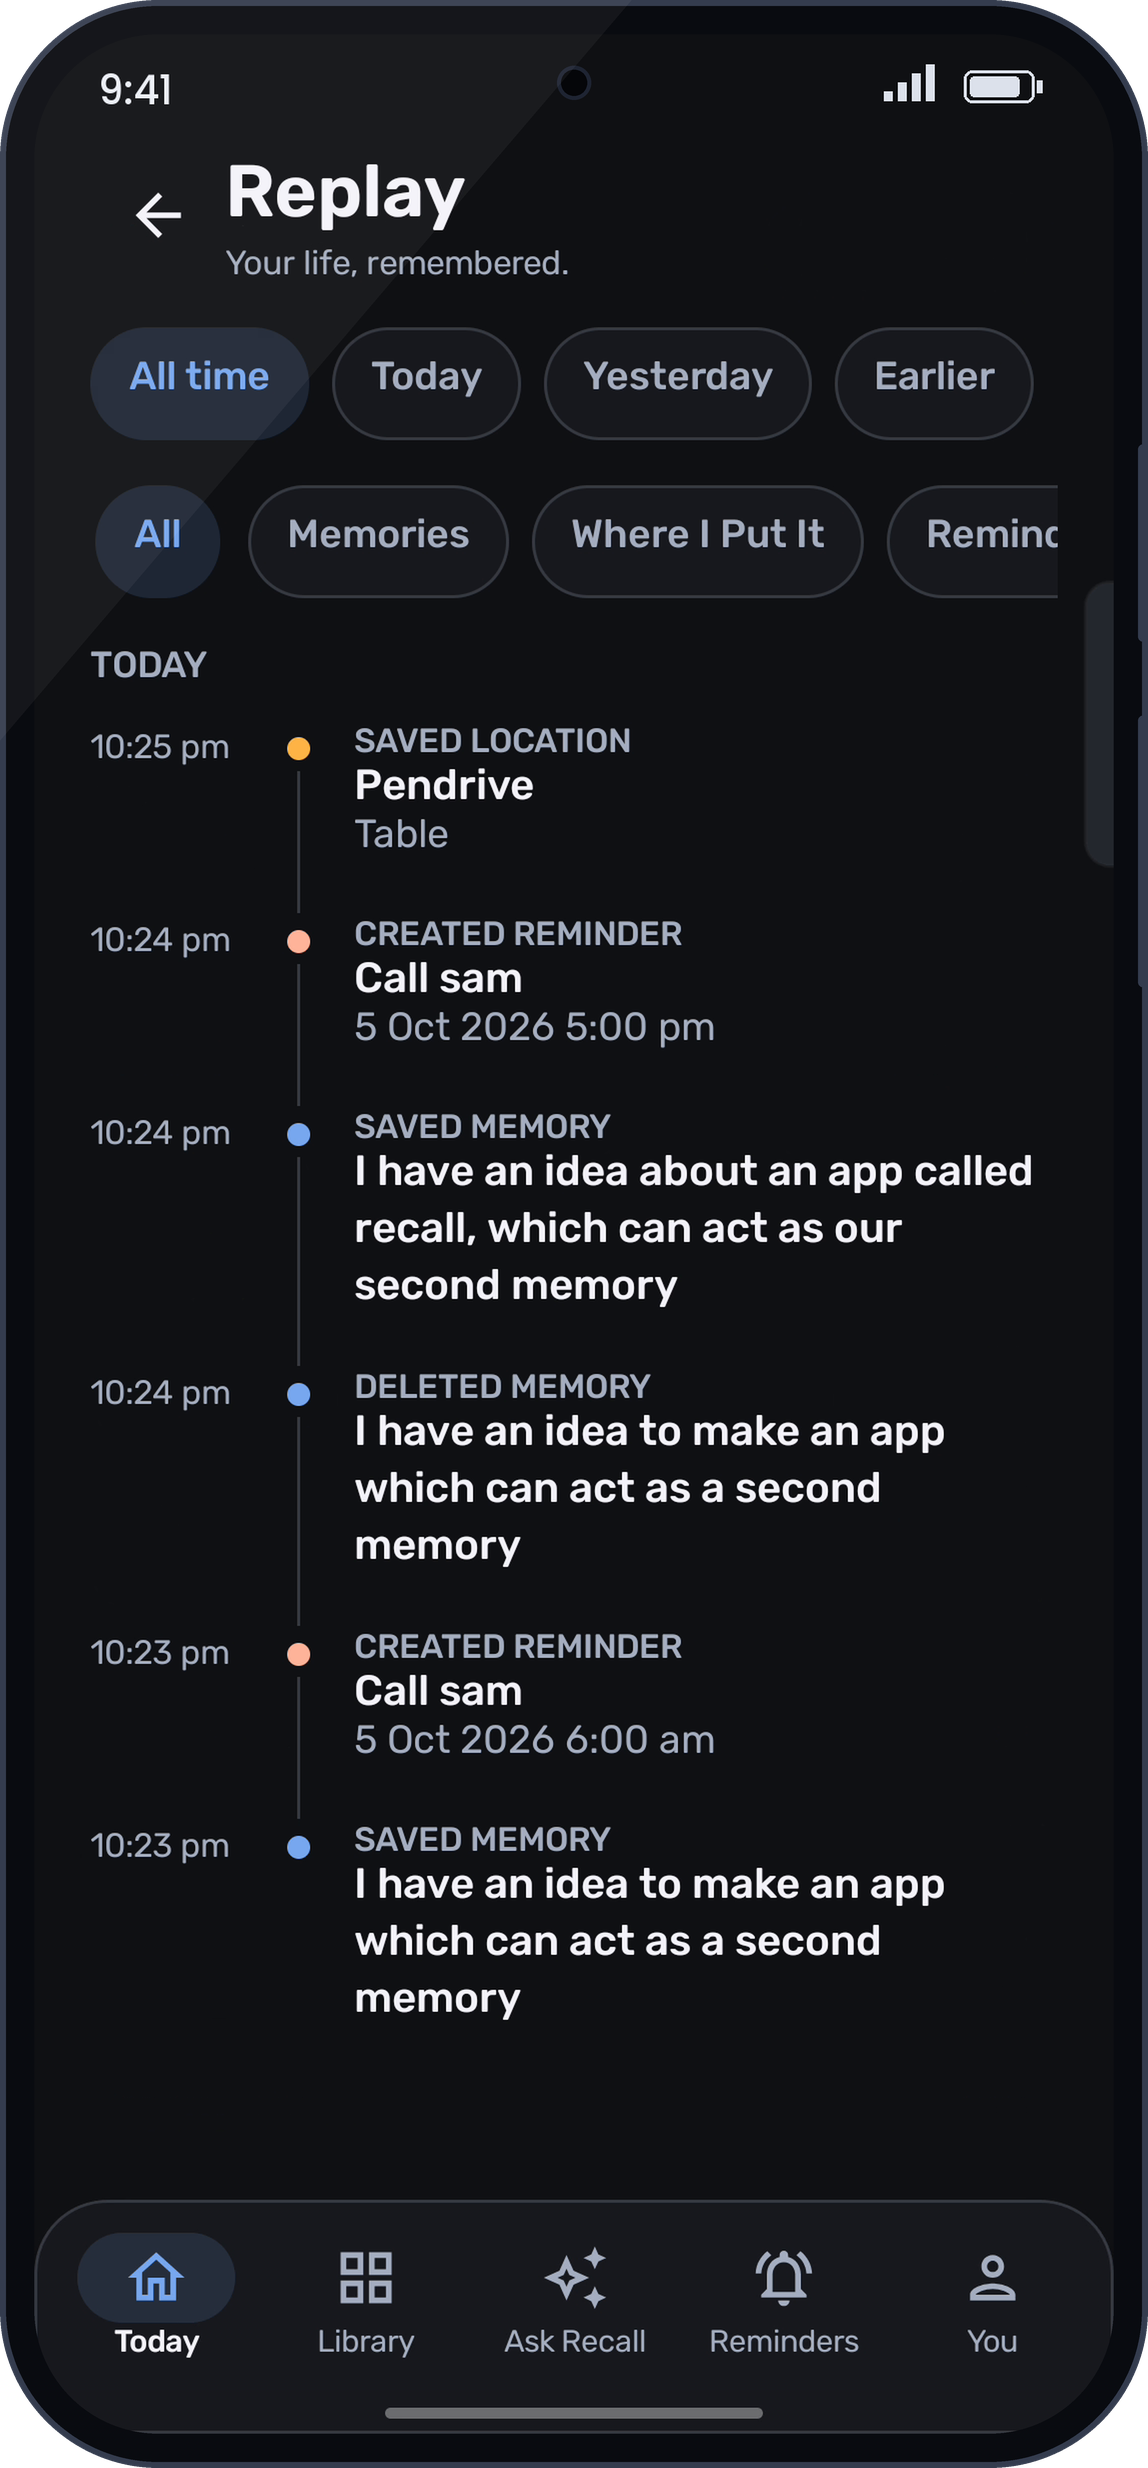
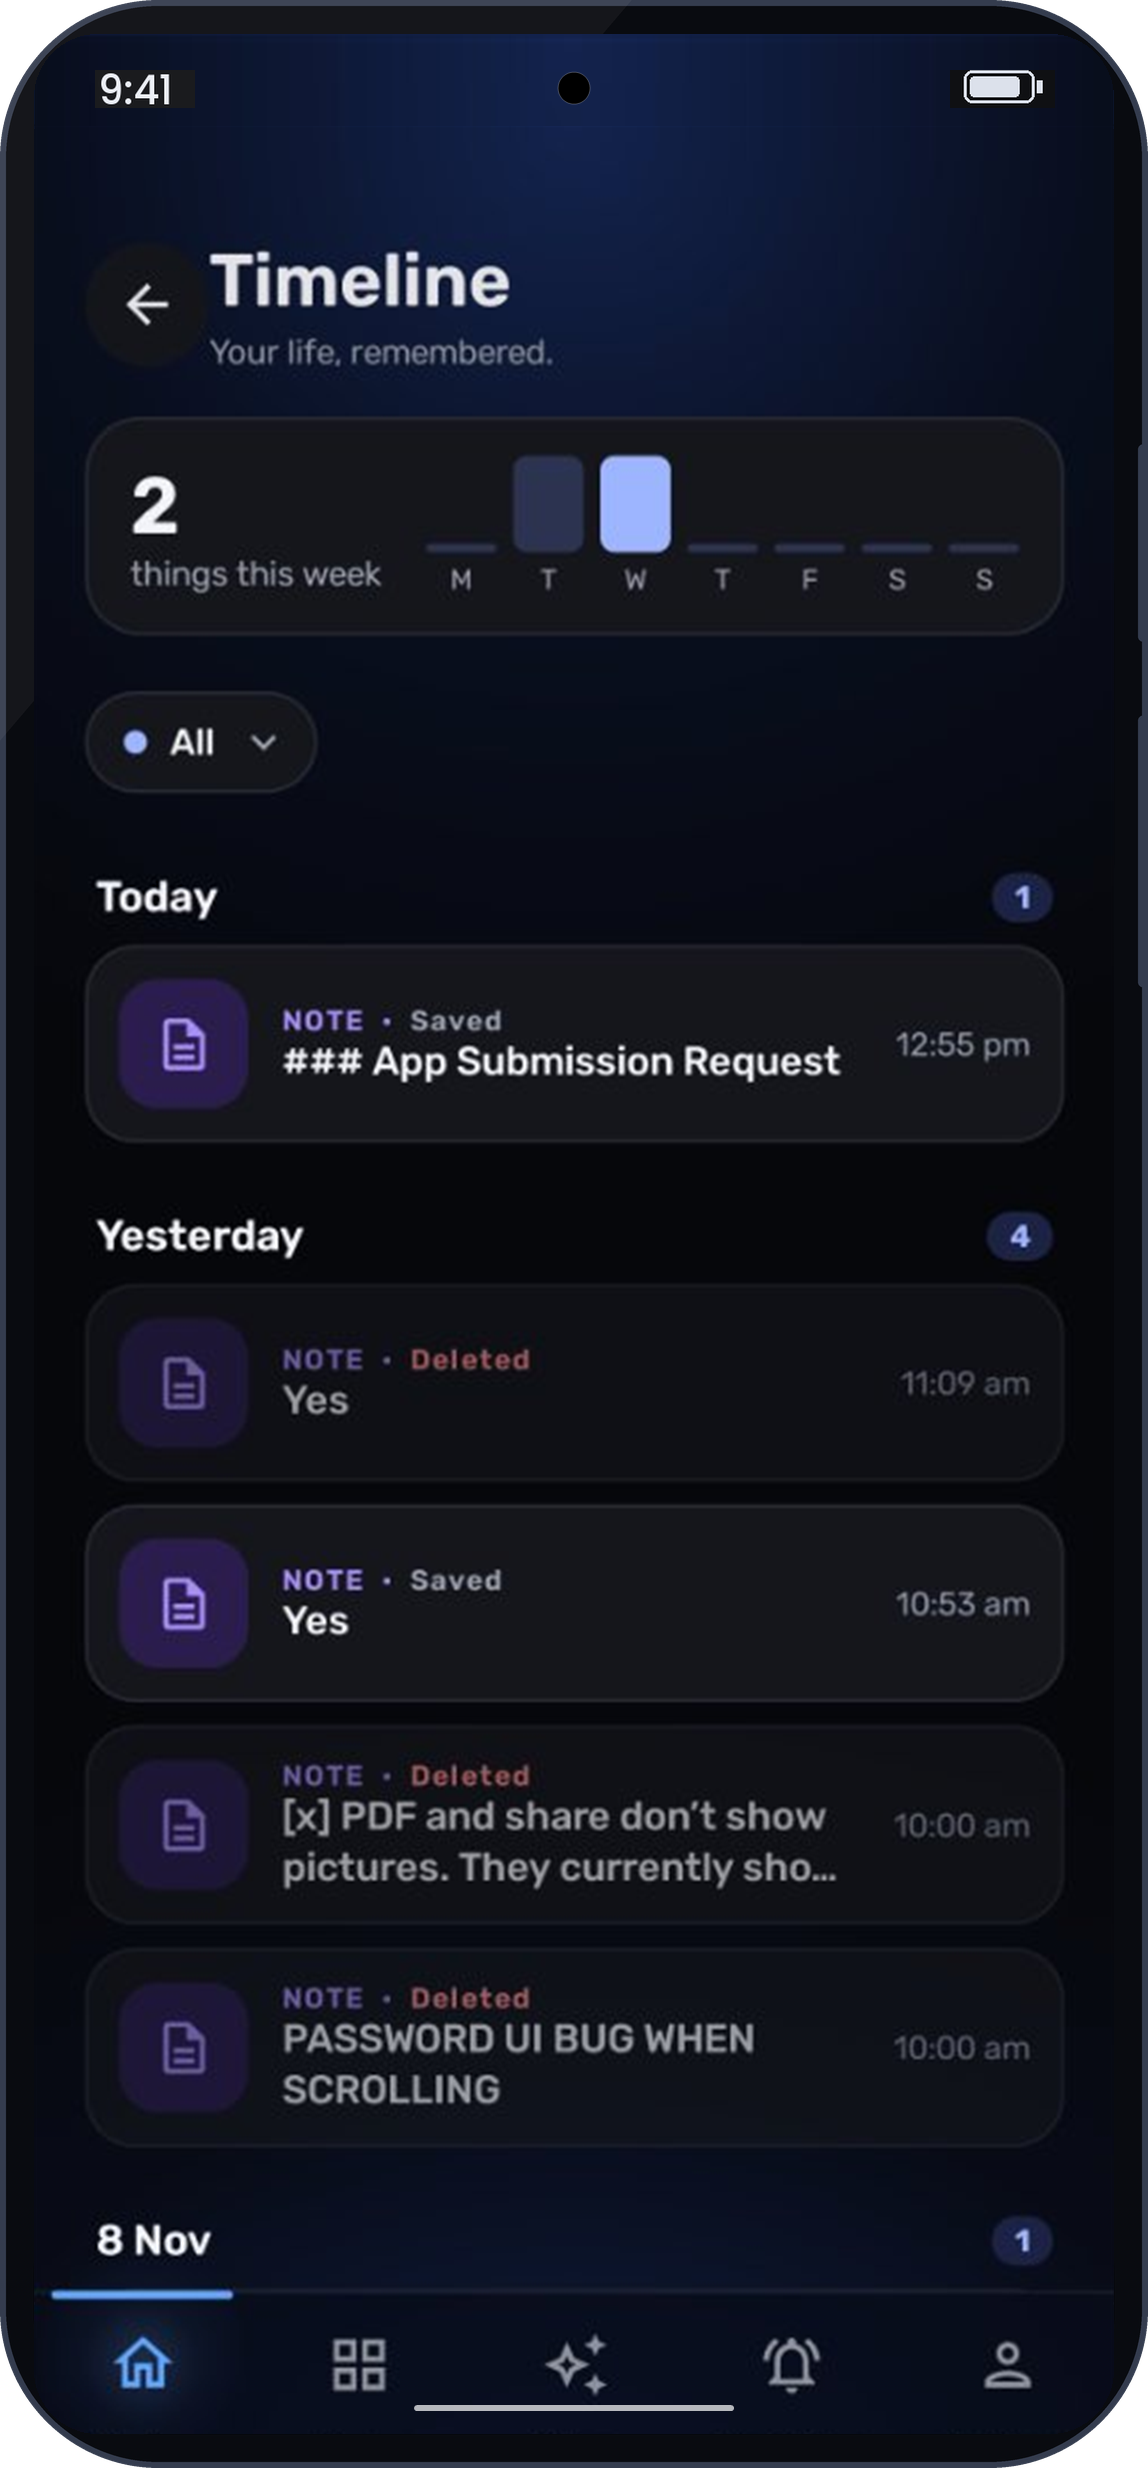
Update Recall Replay to Timeline with new UI screenshot and case study story

diff --git a/lib/projects.ts b/lib/projects.ts
@@ -54,7 +54,7 @@ export const projects: Project[] = [
     accent2: 'oklch(0.97 0.01 250)',
     logo: '/projects/recall/recall-icon.png',
     platforms: ['Android'],
-    features: ['Echo Assistant', 'Where I Put It', 'Reminders & Alarms', 'Temporary Click', 'Library', 'Snap Text OCR', 'Google Drive Backup'],
+    features: ['Echo Assistant', 'Timeline', 'Where I Put It', 'Reminders & Alarms', 'Temporary Click', 'Library', 'Snap Text OCR', 'Google Drive Backup'],
     tech: [],
     visual: 'product-image',
     heroImage: { src: '/projects/recall/recall-product-trio.png', alt: 'Recall Library, Home and Echo shown together', width: 3010, height: 2534 },
@@ -62,7 +62,7 @@ export const projects: Project[] = [
       { src: '/projects/recall/recall-echo.png', alt: 'Echo on-device AI assistant recalling passport location and upcoming week events', kind: 'framed' },
       { src: '/projects/recall/recall-library.png', alt: 'Recall Library with protected passwords, files, receipts, warranties and collections', kind: 'framed' },
       { src: '/projects/recall/recall-home.png', alt: 'Recall Home with Your Socials, pinned collections, Temporary Click and sticky notes', kind: 'framed' },
-      { src: '/projects/recall/recall-replay.png', alt: 'Replay timeline showing saved locations, reminders and memory activity', kind: 'framed' },
+      { src: '/projects/recall/recall-timeline.png', alt: 'Timeline showing weekly memory activity, chronological history and saved notes', kind: 'framed' },
       { src: '/projects/recall/recall-drive-backup.png', alt: 'Google Drive Backup with completed backup status and automatic backup controls', kind: 'framed' },
     ],
     caseStudy: {

diff --git a/components/case-study/recall-story.tsx b/components/case-study/recall-story.tsx
@@ -17,8 +17,9 @@ const stories = [
     { title: 'Your Socials & quick links', text: 'Access your connected profiles, brand links and essential shortcuts right from the top carousel.' },
     { title: 'Pinned vaults & Sticky Notes', text: 'Jump directly into your most-used collections, launch Temporary Click, or jot down thoughts on the sticky note pad.' },
   ] },
-  { title: 'Replay', intro: 'Return to the moments you saved.', details: [
-    { title: 'A timeline of activity', text: 'See memories, reminders and saved locations in time order. Filters let you revisit today, yesterday or earlier activity.' },
+  { title: 'Timeline', intro: 'Your life, remembered.', details: [
+    { title: 'Weekly glance & activity', text: 'Track every saved note, memory and deletion across your days with an at-a-glance weekly activity breakdown.' },
+    { title: 'Chronological memory stream', text: 'Review past actions grouped by Today, Yesterday or earlier dates, with flexible filters to reconstruct your days.' },
   ] },
   { title: 'Google Drive Backup', intro: 'A clear view of your backup.', details: [
     { title: 'Status and control', text: 'See when the last backup completed and start another when you need it. Choose daily or weekly automatic backups and whether to use an unmetered network.' },
